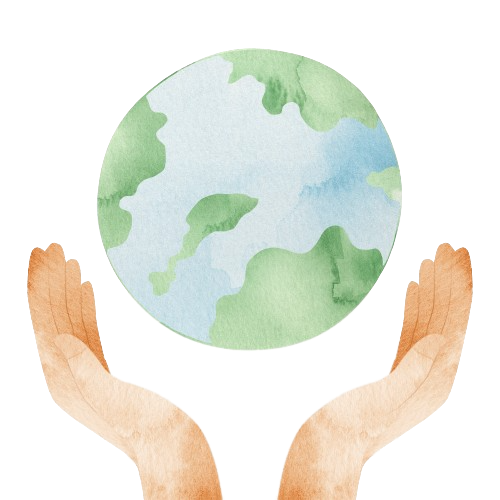
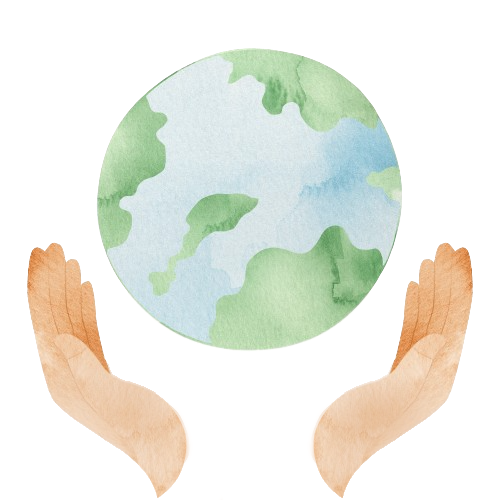
edited the globe image for home page

Changed region(s): [[0.54, 0.75, 0.87, 1.0], [0.18, 0.75, 0.45, 1.0]]

diff --git a/src/main/java/com/KARUpliftUnity/schedulingtasks/ScheduledTasks.java b/src/main/java/com/KARUpliftUnity/schedulingtasks/ScheduledTasks.java
@@ -51,105 +51,7 @@ public class ScheduledTasks {
 
 
 // every hour will test if there are archived users or posts to remove from the db
-//    @Scheduled(fixedRate = 3600000)
-//    public void deleteArchivedItems() {
-//        List<Post> posts = postDao.findByArchiveTrue();
-//        List<User> users = userDao.findAllByArchiveTrue();
-//
-//        Date curTime = new Date();
-//
-//        long curTimeLong = curTime.getTime();
-//
-//        for (Post post: posts){
-//            long archiveTime = 0;
-//            if (post.getArchive()){
-//                archiveTime = post.getArchiveDate().getTime();
-//                System.out.println("archiveTime = " + archiveTime);
-//            }
-//            long totalTime = curTimeLong - archiveTime;
-//            long sevenDays = 604800000;
-//            if(totalTime > sevenDays) {
-//
-//                List<Image> images = imgDao.findAllByPost(post);
-//                if (images != null){
-//                    imgDao.deleteAllInBatch(images);
-//                }
-//
-//                List<Update> updates = updateDao.findAllByPost(post);
-//                if (updates != null){
-//                    updateDao.deleteAllInBatch(updates);
-//                }
-//
-//                List<Like> likes = likeDao.findAllByPost(post);
-//                if (likes != null){
-//                    likeDao.deleteAllInBatch(likes);
-//                }
-//
-//                List<Comment> comments = comDao.findAllByPost(post);
-//                if (comments != null){
-//                    comDao.deleteAllInBatch(comments);
-//                }
-//
-//                List<Tag> tags = tagDao.findAllByPost(post);
-//                if (tags != null){
-//                    tagDao.deleteAllInBatch(tags);
-//                }
-//                postDao.delete(post);
-//            }
-//        }
-//
-//
-//        for (User user: users){
-//            long archiveTime = 0;
-//            if (user.getArchive()){
-//                archiveTime = user.getArchiveDate().getTime();
-//            }
-//            long totalTime = curTimeLong - archiveTime;
-//            long thirtyDays = 2592000000L;
-//            if(totalTime > thirtyDays) {
-//                List<Like> likes = likeDao.findAllByUser(user);
-//                if (likes != null){
-//                    likeDao.deleteAllInBatch(likes);
-//                }
-//                List<Comment> comments = comDao.findAllByUser(user);
-//                if (comments != null){
-//                    comDao.deleteAllInBatch(comments);
-//                }
-//                List<Post> usersPosts = postDao.findAllByUser(user);
-//                if (usersPosts != null){
-//                    for (Post post : usersPosts){
-//                        List<Image> images = imgDao.findAllByPost(post);
-//                        if (images != null){
-//                            imgDao.deleteAllInBatch(images);
-//                        }
-//
-//                        List<Update> updates = updateDao.findAllByPost(post);
-//                        if (updates != null){
-//                            updateDao.deleteAllInBatch(updates);
-//                        }
-//
-//                        List<Like> likes1 = likeDao.findAllByPost(post);
-//                        if (likes1 != null){
-//                            likeDao.deleteAllInBatch(likes1);
-//                        }
-//
-//                        List<Comment> comments1 = comDao.findAllByPost(post);
-//                        if (comments1 != null){
-//                            comDao.deleteAllInBatch(comments1);
-//                        }
-//                        List<Tag> tags = tagDao.findAllByPost(post);
-//                        if (tags != null){
-//                            tagDao.deleteAllInBatch(tags);
-//                        }
-//                    }
-//                    postDao.deleteAllInBatch(usersPosts);
-//                }
-//                userDao.delete(user);
-//            }
-//        }
-//    }
-
-    @Scheduled(fixedRate = 60000)
+    @Scheduled(fixedRate = 3600000)
     public void deleteArchivedItems() {
         List<Post> posts = postDao.findByArchiveTrue();
         List<User> users = userDao.findAllByArchiveTrue();
@@ -160,12 +62,12 @@ public class ScheduledTasks {
 
         for (Post post: posts){
             long archiveTime = 0;
-            if (post.getArchive() && post.getArchiveDate() != null){
+            if (post.getArchive()){
                 archiveTime = post.getArchiveDate().getTime();
                 System.out.println("archiveTime = " + archiveTime);
             }
             long totalTime = curTimeLong - archiveTime;
-            long sevenDays = 120000;
+            long sevenDays = 604800000;
             if(totalTime > sevenDays) {
 
                 List<Image> images = imgDao.findAllByPost(post);
@@ -199,11 +101,11 @@ public class ScheduledTasks {
 
         for (User user: users){
             long archiveTime = 0;
-            if (user.getArchive() && user.getArchiveDate() != null){
+            if (user.getArchive()){
                 archiveTime = user.getArchiveDate().getTime();
             }
             long totalTime = curTimeLong - archiveTime;
-            long thirtyDays = 240000;
+            long thirtyDays = 2592000000L;
             if(totalTime > thirtyDays) {
                 List<Like> likes = likeDao.findAllByUser(user);
                 if (likes != null){
@@ -246,5 +148,4 @@ public class ScheduledTasks {
             }
         }
     }
-
 }
